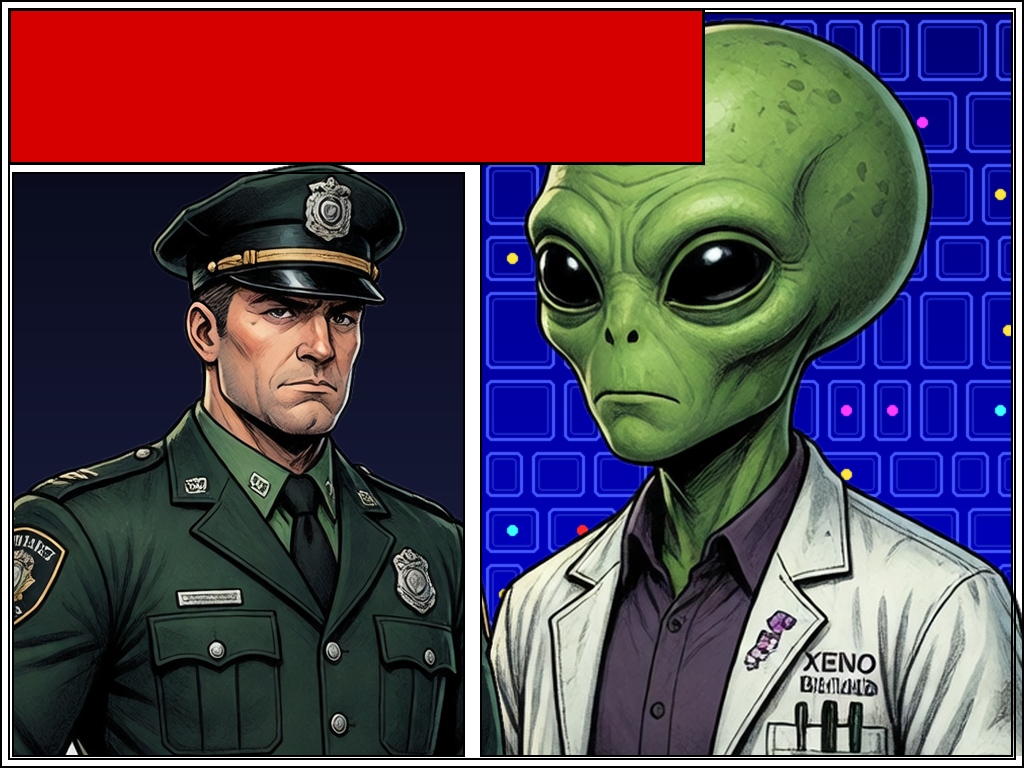
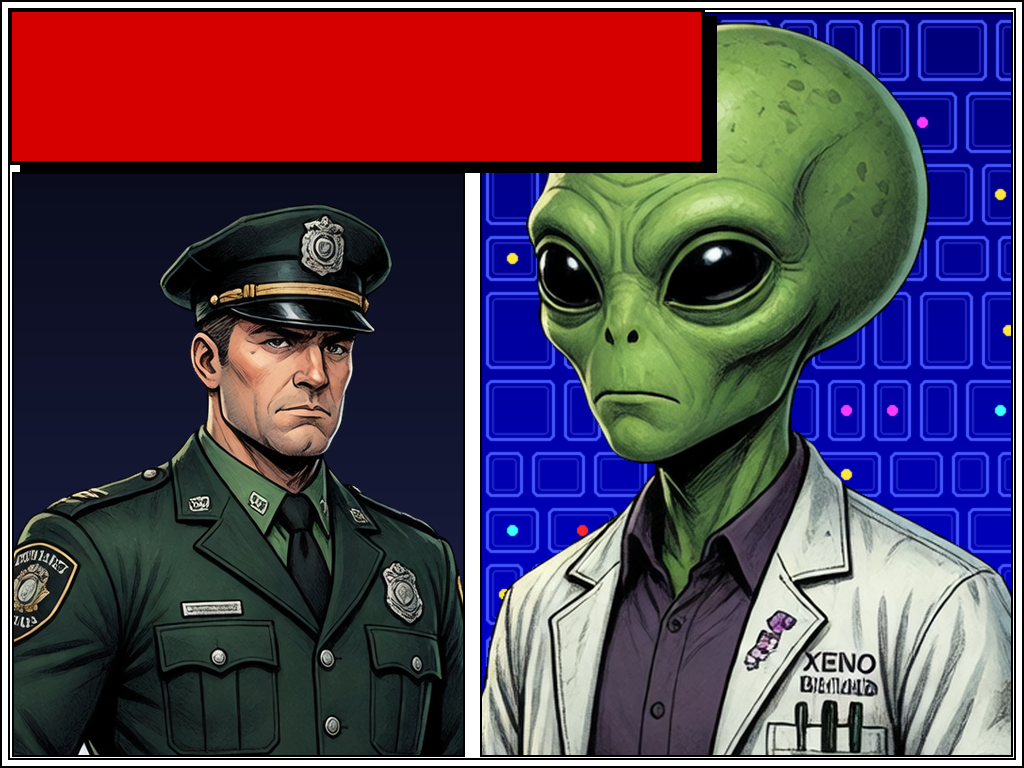
Title picture: the plaque raised, the portraits kept inside their panels
The plaque now stands off the page as the original's does, with a black
shadow to the right and below and a black rim. Each portrait is composed
in its own panel, so Dan's cap no longer crosses the line above him, and
the render's soft grey shadow is cut away with the checkerboard, leaving
the Mekon's outline crisp on the blue panels.

diff --git a/tools/make_title.py b/tools/make_title.py
@@ -22,8 +22,10 @@ def figure_mask(im):
     q = deque()
 
     def light(x, y):
+        # the checkerboard's two greys, and the soft grey shadow the render
+        # casts on it - anything colourless and not dark, reached from outside
         r, g, b = px[x, y][:3]
-        return min(r, g, b) >= 222 and max(r, g, b) - min(r, g, b) <= 14
+        return min(r, g, b) >= 120 and max(r, g, b) - min(r, g, b) <= 14
 
     for x in range(w):
         for y in (0, h - 1):
@@ -39,9 +41,8 @@ def figure_mask(im):
             if 0 <= nx < w and 0 <= ny < h and not seen[ny * w + nx] and light(nx, ny):
                 seen[ny * w + nx] = 1; q.append((nx, ny))
     mask = Image.frombytes("L", (w, h), bytes(0 if s else 255 for s in seen))
-    # shave the light fringe the flood leaves along the outline
-    mask = mask.filter(ImageFilter.MinFilter(3)).filter(ImageFilter.GaussianBlur(0.8))
-    return mask
+    # shave the fringe the flood leaves along the outline, and keep the edge crisp
+    return mask.filter(ImageFilter.MinFilter(5))
 
 
 def cut(im, mask, box):
@@ -96,39 +97,37 @@ def main():
 
     page = Image.new("RGB", (W, H), (255, 255, 255))
     d = ImageDraw.Draw(page)
-    # the frame: white, then a black line, as the original's
-    d.rectangle([0, 0, W - 1, H - 1], outline=(0, 0, 0), width=2)
-    d.rectangle([2 * K, 2 * K, W - 1 - 2 * K, H - 1 - 2 * K], outline=(0, 0, 0), width=2)
 
-    # the Mekon's panel, right, over the tech wall
+    # the Mekon's panel, right, over the tech wall: composed apart, so the
+    # figure is clipped to its panel and never crosses the frame's lines
     rx0, ry0, rx1, ry1 = 120 * K, 3 * K, 253 * K, 189 * K
-    wall = tech_wall(rx1 - rx0, ry1 - ry0)
-    page.paste(wall, (rx0, ry0))
+    right = tech_wall(rx1 - rx0, ry1 - ry0)
     mk = fit(mekon, rx1 - rx0, int((ry1 - ry0) * 1.02))
-    page.paste(mk, (rx0 + (rx1 - rx0 - mk.width) // 2, ry1 - mk.height), mk)
-    d.rectangle([rx0, ry0, rx1, ry1], outline=(0, 0, 0), width=2)
+    right.paste(mk, ((rx1 - rx0 - mk.width) // 2, ry1 - ry0 - mk.height), mk)
+    page.paste(right, (rx0, ry0))
 
     # Dan's panel, left, under the plaque
     lx0, ly0, lx1, ly1 = 3 * K, 43 * K, 116 * K, 189 * K
-    panel = Image.new("RGB", (lx1 - lx0, ly1 - ly0))
-    pd = ImageDraw.Draw(panel)
-    for y in range(panel.height):
-        t = y / panel.height
-        pd.line([(0, y), (panel.width, y)], fill=(int(10 + 20 * t), int(12 + 22 * t), int(30 + 40 * t)))
-    page.paste(panel, (lx0, ly0))
-    dn = fit(dan, lx1 - lx0, int((ly1 - ly0) * 1.04))
-    page.paste(dn, (lx0 + (lx1 - lx0 - dn.width) // 2, ly1 - dn.height), dn)
-    # keep the figure inside its panel: paint the margins back
-    d.rectangle([0, ly0, lx0 - 1, H], fill=(255, 255, 255)); d.rectangle([lx1 + 1, ly0, rx0 - 1, H], fill=(255, 255, 255))
-    d.rectangle([0, 0, W, 2 * K - 1], fill=(255, 255, 255)); d.rectangle([0, H - 2 * K, W, H], fill=(255, 255, 255))
+    left = Image.new("RGB", (lx1 - lx0, ly1 - ly0))
+    pd = ImageDraw.Draw(left)
+    for y in range(left.height):
+        t = y / left.height
+        pd.line([(0, y), (left.width, y)], fill=(int(10 + 20 * t), int(12 + 22 * t), int(30 + 40 * t)))
+    dn = fit(dan, lx1 - lx0, int((ly1 - ly0) * 0.97))       # the cap stays clear of the line above
+    left.paste(dn, ((lx1 - lx0 - dn.width) // 2, ly1 - ly0 - dn.height), dn)
+    page.paste(left, (lx0, ly0))
+
+    # the frame's lines
     d.rectangle([0, 0, W - 1, H - 1], outline=(0, 0, 0), width=2)
     d.rectangle([2 * K, 2 * K, W - 1 - 2 * K, H - 1 - 2 * K], outline=(0, 0, 0), width=2)
     d.rectangle([lx0, ly0, lx1, ly1], outline=(0, 0, 0), width=2)
     d.rectangle([rx0, ry0, rx1, ry1], outline=(0, 0, 0), width=2)
 
-    # the plaque, blank: the game letters it
+    # the plaque, blank - the game letters it - raised off the page as the
+    # original's is: a black shadow to the right and below, and a black rim
     px0, py0, px1, py1 = 2 * K, 2 * K, 176 * K, 41 * K
-    d.rectangle([px0, py0, px1, py1], fill=(214, 0, 0), outline=(0, 0, 0), width=3)
+    d.rectangle([px0 + 3 * K, py0 + 2 * K, px1 + 3 * K, py1 + 2 * K], fill=(0, 0, 0))
+    d.rectangle([px0, py0, px1, py1], fill=(214, 0, 0), outline=(0, 0, 0), width=K)
     page.save(out)
     print("wrote", out, page.size)
 
